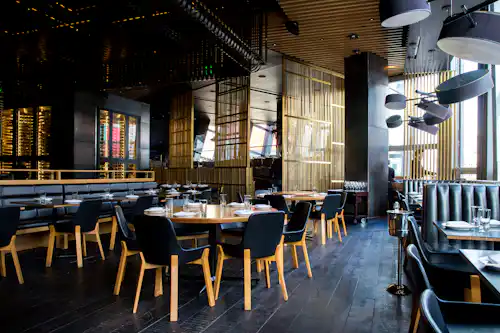
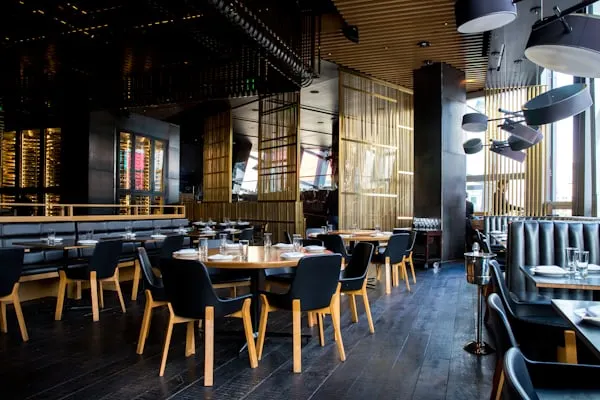
Revue 18 : le service worker ne vide plus les caches des autres projets du domaine
- sw.js : à l'activation, ne supprime que les anciens caches studioweb-* (akalivayne33.github.io est partagé
  avec les autres projets GitHub Pages, dont le sudoku)
- audit : le bouton WhatsApp s'efface pendant la saisie à toutes les largeurs (tablette, portable)
- photo restaurant de l'accueil : WebP réexporté en 600x400 depuis le JPEG (était 500x333)
- cartes secteurs : aria-label reprenant le texte affiché (commande vocale « Beauty & Wellness »)
- audit : apple-touch-icon et balises iOS comme les autres pages

diff --git a/index.html b/index.html
@@ -128,7 +128,7 @@
     <div class="sectors-grid">
 
       <!-- Sport -->
-      <a href="sport.html" class="sector-card animate-in" aria-label="Sport industry examples">
+      <a href="sport.html" class="sector-card animate-in" aria-label="Sport: industry examples">
         <picture>
           <source srcset="assets/img/sectors/sport.webp" type="image/webp" />
           <img class="sector-card__img" src="assets/img/sectors/sport.jpg" alt="Sport gym interior" width="600" height="450" />
@@ -141,7 +141,7 @@
       </a>
 
       <!-- Real Estate -->
-      <a href="real-estate.html" class="sector-card animate-in" aria-label="Real estate industry examples">
+      <a href="real-estate.html" class="sector-card animate-in" aria-label="Real Estate: industry examples">
         <picture>
           <source srcset="assets/img/sectors/realestate.webp" type="image/webp" />
           <img class="sector-card__img" src="assets/img/sectors/realestate.jpg" alt="Modern real estate building" width="600" height="450" loading="lazy" />
@@ -154,7 +154,7 @@
       </a>
 
       <!-- Pharmacy -->
-      <a href="pharmacy.html" class="sector-card animate-in" aria-label="Pharmacy industry examples">
+      <a href="pharmacy.html" class="sector-card animate-in" aria-label="Pharmacy: industry examples">
         <picture>
           <source srcset="assets/img/sectors/pharmacy.webp" type="image/webp" />
           <img class="sector-card__img" src="assets/img/sectors/pharmacy.jpg" alt="Pharmacy interior with shelves" width="600" height="450" loading="lazy" />
@@ -167,7 +167,7 @@
       </a>
 
       <!-- Restaurant -->
-      <a href="restaurant.html" class="sector-card animate-in" aria-label="Restaurant industry examples">
+      <a href="restaurant.html" class="sector-card animate-in" aria-label="Restaurant: industry examples">
         <picture>
           <source srcset="assets/img/sectors/restaurant.webp" type="image/webp" />
           <img class="sector-card__img" src="assets/img/sectors/restaurant.jpg" alt="Elegant restaurant interior" width="600" height="450" loading="lazy" />
@@ -180,7 +180,7 @@
       </a>
 
       <!-- Beauty & Wellness -->
-      <a href="beauty.html" class="sector-card animate-in" aria-label="Beauty and wellness industry examples">
+      <a href="beauty.html" class="sector-card animate-in" aria-label="Beauty &amp; Wellness: industry examples">
         <picture>
           <source srcset="assets/img/sectors/beauty.webp" type="image/webp" />
           <img class="sector-card__img" src="assets/img/sectors/beauty.jpg" alt="Beauty spa treatment" width="600" height="450" loading="lazy" />
@@ -193,7 +193,7 @@
       </a>
 
       <!-- Clinic & Dental -->
-      <a href="clinic.html" class="sector-card animate-in" aria-label="Clinic and dental industry examples">
+      <a href="clinic.html" class="sector-card animate-in" aria-label="Clinic &amp; Dental: industry examples">
         <picture>
           <source srcset="assets/img/sectors/clinic.webp" type="image/webp" />
           <img class="sector-card__img" src="assets/img/sectors/clinic.jpg" alt="Modern dental clinic interior" width="600" height="450" loading="lazy" />
@@ -206,7 +206,7 @@
       </a>
 
       <!-- Tutoring & Enrichment -->
-      <a href="tutoring.html" class="sector-card animate-in" aria-label="Tutoring and enrichment industry examples">
+      <a href="tutoring.html" class="sector-card animate-in" aria-label="Tutoring &amp; Enrichment: industry examples">
         <picture>
           <source srcset="assets/img/sectors/tutoring.webp" type="image/webp" />
           <img class="sector-card__img" src="assets/img/sectors/tutoring.jpg" alt="Students studying together" width="600" height="450" loading="lazy" />
@@ -219,7 +219,7 @@
       </a>
 
       <!-- Interior Design & Renovation -->
-      <a href="interior.html" class="sector-card animate-in" aria-label="Interior design and renovation industry examples">
+      <a href="interior.html" class="sector-card animate-in" aria-label="Interior Design: industry examples">
         <picture>
           <source srcset="assets/img/sectors/interior.webp" type="image/webp" />
           <img class="sector-card__img" src="assets/img/sectors/interior.jpg" alt="Modern interior design living room" width="600" height="450" loading="lazy" />

diff --git a/audit.html b/audit.html
@@ -21,7 +21,11 @@
 
   <!-- ── Theme ── -->
   <meta name="theme-color" content="#0A0A0A" />
+  <meta name="apple-mobile-web-app-capable" content="yes" />
+  <meta name="apple-mobile-web-app-status-bar-style" content="black" />
+  <meta name="apple-mobile-web-app-title" content="StudioWeb" />
   <link rel="icon" type="image/svg+xml" href="assets/img/icon.svg" />
+  <link rel="apple-touch-icon" href="assets/img/icon-192.png" />
   <link rel="manifest" href="manifest.json" />
 
   <!-- ── Critical CSS inline ── -->
@@ -134,8 +138,9 @@
     .wa-float:hover{transform:translateY(-3px);box-shadow:0 14px 36px rgba(37,211,102,.55)}
     .wa-float__label{display:none}
     @media(min-width:600px){.wa-float__label{display:inline}}
-    /* phones: focused fields scroll clear of the floating button, which steps aside while the form is in use */
-    @media(max-width:768px){html{scroll-padding-bottom:96px}body:has(.audit-form :focus) .wa-float{display:none}}
+    /* focused fields scroll clear of the floating WhatsApp button, which steps aside while the form is in use */
+    html{scroll-padding-bottom:96px}
+    body:has(.audit-form :focus) .wa-float{display:none}
 
     /* WhatsApp nav link */
     .site-nav__wa{display:inline-flex;align-items:center;gap:6px;padding:8px 16px;background:#25D366;color:#06331A;border-radius:999px;font-size:0.82rem;font-weight:700;white-space:nowrap;transition:background .2s,transform .2s;flex-shrink:0}

diff --git a/sw.js b/sw.js
@@ -46,11 +46,12 @@ self.addEventListener('install', (event) => {
   self.skipWaiting();
 });
 
-/* ── Activate: clean old caches ── */
+/* ── Activate: clean this site's old caches ── */
 self.addEventListener('activate', (event) => {
   event.waitUntil(
     caches.keys().then((keys) =>
-      Promise.all(keys.filter((k) => k !== CACHE_NAME).map((k) => caches.delete(k)))
+      // only this site's old caches: other projects on the same github.io domain share the origin
+      Promise.all(keys.filter((k) => k.startsWith('studioweb-') && k !== CACHE_NAME).map((k) => caches.delete(k)))
     ).then(() => self.clients.claim())
   );
 });
